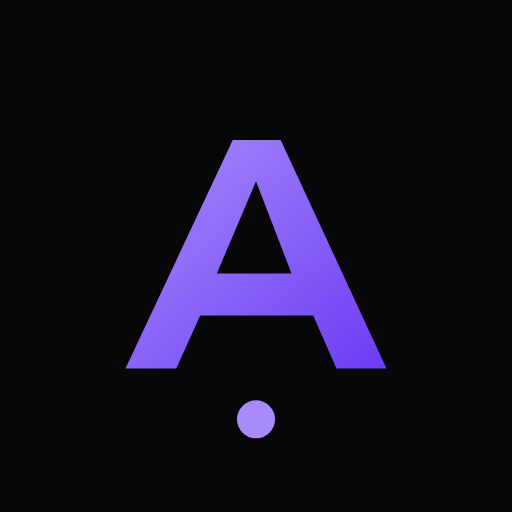
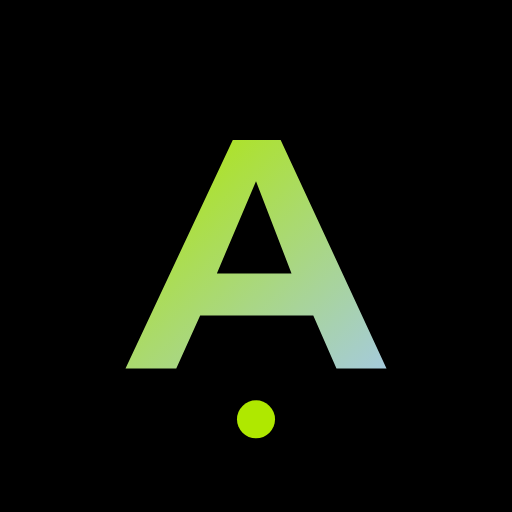
Rebrand to lime/indigo/ice palette from brand board
Lime #AFE800, indigo #190F6F, ice #A5CBDC, off-white #F5FAFE, black #000000.
Dark: off-white on black, lime accent, ice secondary. Light: indigo ink on
off-white, ice surfaces, lime for graphic highlights only (contrast).
Intro ink, portrait ring, favicon, PWA icons, apple icon and OG image
regenerated in the new palette; accent-ink token keeps CTA text readable
(indigo on lime in dark, off-white on indigo in light).

Changed region(s): [[0.25, 0.25, 0.75, 0.7188], [0.4375, 0.7812, 0.5625, 0.875]]

diff --git a/app/globals.css b/app/globals.css
@@ -6,49 +6,67 @@
 :root {
   color-scheme: light;
 
-  --canvas: #fbfbfc;
-  --canvas-alt: #f4f4f6;
+  /* Brand palette (Jeita board): lime #AFE800 · indigo #190F6F ·
+     ice #A5CBDC · off-white #F5FAFE · black #000000.
+     Light theme = the board's white variation: indigo ink on off-white,
+     lime reserved for graphic highlights (it fails as small text on white). */
+  --brand-lime: #afe800;
+  --brand-indigo: #190f6f;
+  --brand-ice: #a5cbdc;
+  --canvas: #f5fafe;
+  --canvas-alt: #e9f1f7;
   --surface: #ffffff;
-  --surface-2: #f6f6f8;
-  --ink: #0b0b0f;
-  --ink-soft: #2a2a33;
-  --muted: #6b6b76;
-  --line: rgba(11, 11, 15, 0.1);
-  --line-strong: rgba(11, 11, 15, 0.16);
-  --accent: #6d3cf5;
-  --accent-soft: rgba(109, 60, 245, 0.1);
-  --accent-ring: rgba(109, 60, 245, 0.32);
-  --shadow-card: 0 1px 2px rgba(11, 11, 15, 0.04), 0 12px 32px -16px rgba(11, 11, 15, 0.18);
-  --shadow-float: 0 24px 60px -28px rgba(11, 11, 15, 0.3);
-  --grid-line: rgba(11, 11, 15, 0.045);
-  --glow: rgba(109, 60, 245, 0.16);
-  --code-keyword: #5b21b6;
-  --code-string: #047857;
-  --code-bool: #0369a1;
+  --surface-2: #eaf2f8;
+  --ink: #190f6f;
+  --ink-soft: #37308a;
+  --muted: #4f4a8a;
+  --line: rgba(25, 15, 111, 0.12);
+  --line-strong: rgba(25, 15, 111, 0.22);
+  --accent: #190f6f;
+  --accent-ink: #f5fafe;
+  --accent-soft: rgba(165, 203, 220, 0.32);
+  --accent-ring: rgba(25, 15, 111, 0.35);
+  --highlight: #afe800;
+  --highlight-ink: #190f6f;
+  --shadow-card: 0 1px 2px rgba(25, 15, 111, 0.05), 0 12px 32px -16px rgba(25, 15, 111, 0.22);
+  --shadow-float: 0 24px 60px -28px rgba(25, 15, 111, 0.35);
+  --grid-line: rgba(25, 15, 111, 0.05);
+  --glow: rgba(165, 203, 220, 0.45);
+  --code-keyword: #190f6f;
+  --code-string: #487800;
+  --code-bool: #2f6b8a;
 }
 
 .dark {
   color-scheme: dark;
 
-  --canvas: #07070a;
-  --canvas-alt: #0a0a0e;
-  --surface: #0e0e13;
-  --surface-2: #14141b;
-  --ink: #f4f4f7;
-  --ink-soft: #d5d5dd;
-  --muted: #8d8d99;
-  --line: rgba(255, 255, 255, 0.1);
-  --line-strong: rgba(255, 255, 255, 0.18);
-  --accent: #a78bfa;
-  --accent-soft: rgba(139, 92, 246, 0.16);
-  --accent-ring: rgba(167, 139, 250, 0.4);
-  --shadow-card: 0 1px 0 rgba(255, 255, 255, 0.03) inset, 0 20px 40px -28px rgba(0, 0, 0, 0.9);
+  /* Dark theme = the board's principal logo: off-white on pure black,
+     lime accent (the dot), ice as the cool secondary. */
+  --brand-lime: #afe800;
+  --brand-indigo: #190f6f;
+  --brand-ice: #a5cbdc;
+  --canvas: #000000;
+  --canvas-alt: #060418;
+  --surface: #0b0724;
+  --surface-2: #150e3d;
+  --ink: #f5fafe;
+  --ink-soft: #d9e6ef;
+  --muted: #93a7c4;
+  --line: rgba(165, 203, 220, 0.14);
+  --line-strong: rgba(165, 203, 220, 0.24);
+  --accent: #afe800;
+  --accent-ink: #190f6f;
+  --accent-soft: rgba(175, 232, 0, 0.13);
+  --accent-ring: rgba(175, 232, 0, 0.45);
+  --highlight: #afe800;
+  --highlight-ink: #190f6f;
+  --shadow-card: 0 1px 0 rgba(245, 250, 254, 0.04) inset, 0 20px 40px -28px rgba(0, 0, 0, 0.9);
   --shadow-float: 0 30px 80px -40px rgba(0, 0, 0, 1);
-  --grid-line: rgba(255, 255, 255, 0.035);
-  --glow: rgba(139, 92, 246, 0.22);
-  --code-keyword: #c4b5fd;
-  --code-string: #7dd3a8;
-  --code-bool: #8ecdf7;
+  --grid-line: rgba(165, 203, 220, 0.05);
+  --glow: rgba(175, 232, 0, 0.16);
+  --code-keyword: #afe800;
+  --code-string: #a5cbdc;
+  --code-bool: #f5fafe;
 }
 
 @theme inline {
@@ -63,6 +81,10 @@
   --color-line-strong: var(--line-strong);
   --color-accent: var(--accent);
   --color-accent-soft: var(--accent-soft);
+  --color-highlight: var(--highlight);
+  --color-brand-lime: var(--brand-lime);
+  --color-brand-indigo: var(--brand-indigo);
+  --color-brand-ice: var(--brand-ice);
 
   --font-sans: var(--font-inter), ui-sans-serif, system-ui, -apple-system, "Segoe UI", sans-serif;
   --font-display: var(--font-display), var(--font-inter), ui-sans-serif, system-ui, sans-serif;
@@ -254,7 +276,8 @@
 
   .btn-accent {
     background: var(--accent);
-    color: #fff;
+    color: var(--accent-ink);
+    font-weight: 600;
     box-shadow: 0 12px 30px -16px var(--accent-ring);
   }
 

diff --git a/components/intro/IntroSequence.tsx b/components/intro/IntroSequence.tsx
@@ -223,7 +223,7 @@ export default function IntroSequence() {
       {phase !== "done" && (
         <motion.div
           key="intro"
-          className="intro-overlay fixed inset-0 z-[100] flex-col items-center justify-center bg-[#050507]"
+          className="intro-overlay fixed inset-0 z-[100] flex-col items-center justify-center bg-black"
           initial={{ opacity: 0 }}
           animate={{ opacity: closing ? 0 : 1 }}
           transition={{
@@ -242,7 +242,7 @@ export default function IntroSequence() {
             className="pointer-events-none absolute left-1/2 top-1/2 h-[46rem] w-[46rem] -translate-x-1/2 -translate-y-1/2 rounded-full opacity-50 blur-[120px]"
             style={{
               background:
-                "radial-gradient(circle, rgba(139,92,246,0.20) 0%, rgba(139,92,246,0.06) 42%, transparent 70%)",
+                "radial-gradient(circle, rgba(175,232,0,0.16) 0%, rgba(25,15,111,0.20) 45%, transparent 70%)",
             }}
           />
 
@@ -269,13 +269,13 @@ export default function IntroSequence() {
                     y2="0"
                   >
                     <stop offset="0%" stopColor="#ffffff" />
-                    <stop offset="45%" stopColor="#e7e1ff" />
-                    <stop offset="100%" stopColor="#8b5cf6" />
+                    <stop offset="45%" stopColor="#a5cbdc" />
+                    <stop offset="100%" stopColor="#afe800" />
                   </linearGradient>
                   <radialGradient id="intro-tip-glow">
                     <stop offset="0%" stopColor="#ffffff" stopOpacity="0.9" />
-                    <stop offset="35%" stopColor="#a78bfa" stopOpacity="0.45" />
-                    <stop offset="100%" stopColor="#8b5cf6" stopOpacity="0" />
+                    <stop offset="35%" stopColor="#a5cbdc" stopOpacity="0.45" />
+                    <stop offset="100%" stopColor="#afe800" stopOpacity="0" />
                   </radialGradient>
                 </defs>
 
@@ -285,7 +285,7 @@ export default function IntroSequence() {
                   strokeWidth={7}
                   strokeLinecap="round"
                   strokeLinejoin="round"
-                  style={{ filter: "drop-shadow(0 0 15px rgba(139,92,246,0.32))" }}
+                  style={{ filter: "drop-shadow(0 0 15px rgba(175,232,0,0.35))" }}
                 >
                   {strokes.strokes.map((s, i) => (
                     <path
@@ -314,7 +314,7 @@ export default function IntroSequence() {
 
               <div className="mt-2 flex h-16 flex-col items-center justify-start gap-3 sm:mt-4 sm:h-20">
                 <motion.div
-                  className="h-px w-24 bg-gradient-to-r from-transparent via-[#8b5cf6] to-transparent"
+                  className="h-px w-24 bg-gradient-to-r from-transparent via-[#afe800] to-transparent"
                   initial={false}
                   animate={tagline ? { scaleX: 1, opacity: 0.9 } : { scaleX: 0, opacity: 0 }}
                   transition={{ duration: 0.7, ease: [0.22, 1, 0.36, 1] }}

diff --git a/components/Portrait.tsx b/components/Portrait.tsx
@@ -42,7 +42,7 @@ export default function Portrait({
       className={`relative inline-flex shrink-0 items-center justify-center rounded-full p-[3px] ${className}`}
       style={{
         background:
-          "conic-gradient(from 145deg, var(--accent) 0%, rgba(167,139,250,0.45) 22%, var(--line-strong) 48%, rgba(167,139,250,0.45) 72%, var(--accent) 100%)",
+          "conic-gradient(from 145deg, var(--accent) 0%, rgba(165,203,220,0.55) 22%, var(--line-strong) 48%, rgba(165,203,220,0.55) 72%, var(--accent) 100%)",
       }}
     >
       <span className="relative flex h-full w-full items-center justify-center overflow-hidden rounded-full bg-surface-2">

diff --git a/app/axloritech/page.tsx b/app/axloritech/page.tsx
@@ -143,7 +143,7 @@ export default function AxloritechPage() {
                   id="company-title"
                   className="mt-4 font-display text-[2.15rem] font-extrabold leading-[1.05] tracking-[0.02em] text-ink sm:text-5xl lg:text-[3.5rem]"
                 >
-                  AXLORI<span className="text-accent">TECH</span>
+                  AXLORI<span className="text-accent">TECH</span><span className="text-highlight" aria-hidden="true">.</span>
                 </h1>
                 <p className="mt-4 font-mono text-[0.8rem] uppercase tracking-[0.2em] text-accent">
                   {organization.slogan}

diff --git a/components/SiteHeader.tsx b/components/SiteHeader.tsx
@@ -122,7 +122,7 @@ export default function SiteHeader() {
         {/* Wordmark */}
         <a href={homeHref} className="group flex items-baseline gap-2.5 py-2">
           <span className="font-display text-[0.95rem] font-extrabold tracking-[0.2em] text-ink sm:text-base">
-            AXLORI<span className="text-accent">TECH</span>
+            AXLORI<span className="text-accent">TECH</span><span className="text-highlight" aria-hidden="true">.</span>
           </span>
           <span className="hidden font-mono text-[0.6rem] uppercase tracking-[0.18em] text-muted lg:inline">
             {site.tagline}

diff --git a/components/SiteFooter.tsx b/components/SiteFooter.tsx
@@ -29,7 +29,7 @@ export default function SiteFooter() {
               aria-label={`${site.name} — back to top`}
             >
               <span className="font-display text-lg font-extrabold tracking-[0.2em] text-ink">
-                AXLORI<span className="text-accent">TECH</span>
+                AXLORI<span className="text-accent">TECH</span><span className="text-highlight" aria-hidden="true">.</span>
               </span>
             </a>
             <p className="mt-2 font-mono text-[0.68rem] uppercase tracking-[0.2em] text-muted">

diff --git a/app/manifest.ts b/app/manifest.ts
@@ -8,8 +8,8 @@ export default function manifest(): MetadataRoute.Manifest {
     description: site.description,
     start_url: "/",
     display: "standalone",
-    background_color: "#07070a",
-    theme_color: "#07070a",
+    background_color: "#000000",
+    theme_color: "#000000",
     categories: ["portfolio", "developer", "technology"],
     icons: [
       { src: "/icon.svg", sizes: "any", type: "image/svg+xml", purpose: "any" },

diff --git a/app/layout.tsx b/app/layout.tsx
@@ -101,8 +101,8 @@ export const viewport: Viewport = {
   width: "device-width",
   initialScale: 1,
   themeColor: [
-    { media: "(prefers-color-scheme: dark)", color: "#07070a" },
-    { media: "(prefers-color-scheme: light)", color: "#fbfbfc" },
+    { media: "(prefers-color-scheme: dark)", color: "#000000" },
+    { media: "(prefers-color-scheme: light)", color: "#f5fafe" },
   ],
   colorScheme: "dark light",
 };

diff --git a/README.md b/README.md
@@ -124,11 +124,14 @@ contactEmail: "hello@yourdomain.com",
 
 A sophisticated dark/light system driven by CSS custom properties in `app/globals.css`.
 
-- **Dark** is the default (slightly futuristic, near-black `#07070a`); **light** is a clean
-  document-white counterpart. The toggle persists to `localStorage` and is applied by a
+- **Colour palette** (from the brand board): lime `#AFE800`, deep indigo `#190F6F`,
+  ice `#A5CBDC`, off-white `#F5FAFE`, black `#000000`. **Dark** is the default — off-white
+  on pure black with lime as the accent and ice as the secondary, like the principal
+  logo. **Light** is the board's white variation — indigo ink on off-white, ice-tinted
+  surfaces, lime kept for graphic highlights only (it fails contrast as small text on
+  white, so light-theme text accents are indigo; the CTA flips to indigo text on lime
+  in dark via `--accent-ink`). The toggle persists to `localStorage` and is applied by a
   pre-paint inline script, so there is no theme flash.
-- **Accents** are a single restrained purple (`#a78bfa` dark / `#6d3cf5` light) used only for
-  highlights, interactive states and key details.
 - **Typography:** Plus Jakarta Sans for display headings, Inter for body copy, JetBrains Mono
   for code and micro-labels. All self-hosted (latin variable subsets, 3 files, ~105 KB).
 - Deliberately avoided: heavy glassmorphism, big gradients, neon, clutter.
